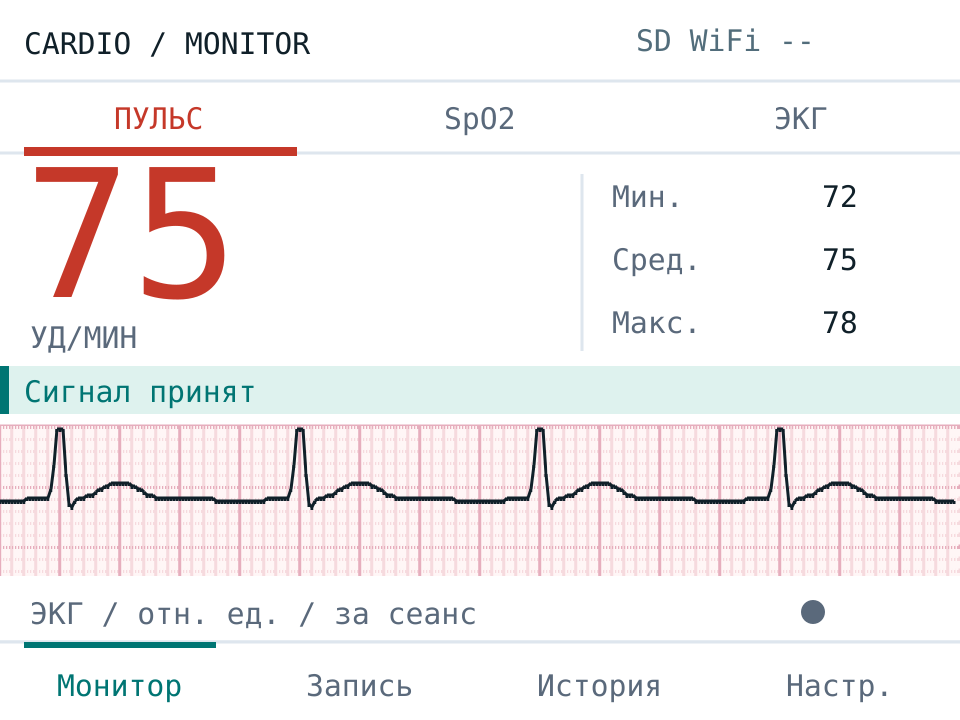
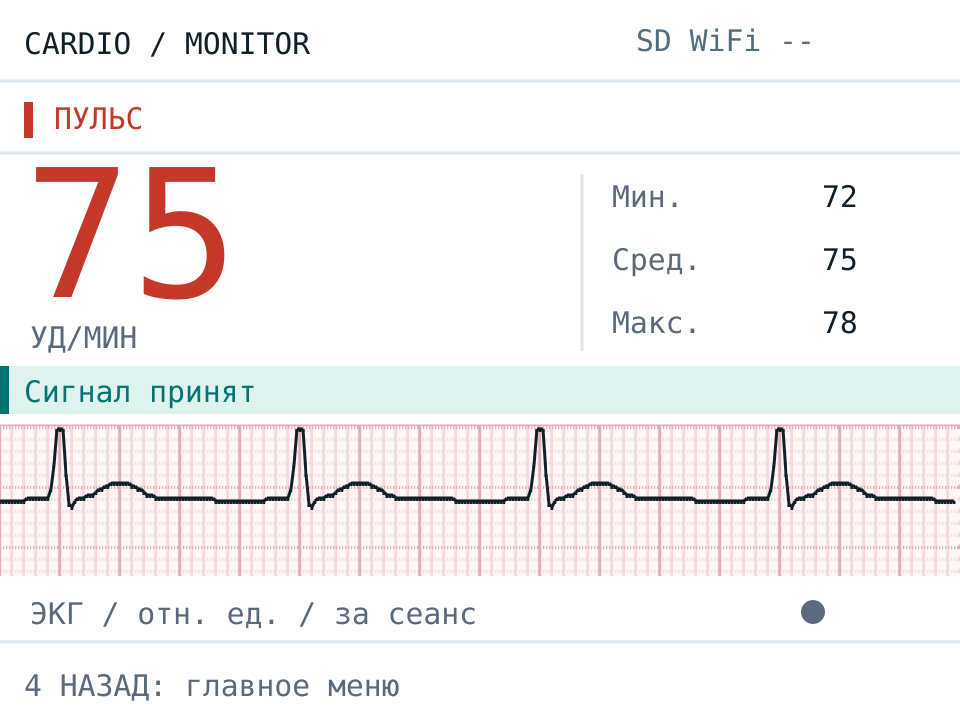
Restore original main menu and consistent directional navigation

diff --git a/Monitor soft/README.md b/Monitor soft/README.md
@@ -128,25 +128,27 @@ MAX30102 RED/IR ─────┘        ↕                     ↓
 
 ## Светлый интерфейс и управление
 
-Все экраны светлые: белый фон, плоские строки, тонкие разделители, крупные цифры
-без декоративных карточек. При включении открывается «Пульс»: крупная оптическая ЧСС,
-минимум/среднее/максимум принятых значений за сеанс и мини-ЭКГ. «SpO₂» показывает
-сатурацию, оптическую ЧСС, контакт пальца и PPG. «ЭКГ» показывает один канал,
-предварительную ЧСС и состояние качества.
+Восстановлено первоначальное главное меню: ЭКГ, Пульс, SpO₂, История, Настройки.
+Оно открывается при включении. Выбранный пункт подсвечен; после возврата выделение
+сохраняется. Светлые экраны измерений и обработка сигналов сохранены.
 
-| Физическая кнопка | На экране измерения | В списках и настройках |
-|---|---|---|
-| 1, GPIO 1 | Монитор: Пульс → SpO₂ → ЭКГ → Пульс | Вверх |
-| 2, GPIO 2 | Начать/остановить запись | Вниз |
-| 3, GPIO 10 | История | OK |
-| 4, ADS1115 A2 | Настройки | Назад |
+| Физическая кнопка | Действие |
+|---|---|
+| 1, GPIO 1 | Вверх: предыдущий пункт / страница |
+| 2, GPIO 2 | Вниз: следующий пункт / страница |
+| 3, GPIO 10 | OK: открыть пункт / изменить настройку |
+| 4, ADS1115 A2 | Назад: вернуться на один уровень |
 
-Переход между измерениями закрывает текущий файл и начинает новый сеанс.
-Вход в историю/настройки останавливает сбор и закрывает файл. Возврат открывает
-последнюю вкладку измерения. При включённой настройке записи новый сеанс записывается
-автоматически; подсветка «Запись» означает реально открытый файл на SD.
-Статистика пульса обновляется принятыми показаниями примерно раз в секунду,
-сбрасывается при начале сеанса и занимает фиксированный объём RAM.
+Чтобы сменить измерение: **Назад → Вверх/Вниз → OK**. На экране измерения
+кнопки 1/2/3 не переключают режим и не меняют запись; снизу показана подсказка
+«4 НАЗАД: главное меню». Назад завершает сеанс и закрывает CSV.
+Запись включается и выключается через **Настройки → Запись**; при включённой
+записи открытие измерения создаёт новый файл. Индикатор REC означает открытый файл.
+
+Пульс показывает крупную ЧСС, min/среднее/max принятых значений за сеанс и мини-ЭКГ.
+SpO₂ показывает сатурацию, оптическую ЧСС, наличие пальца и PPG. ЭКГ показывает
+один канал, предварительную ЧСС и качество сигнала. Статистика занимает фиксированный
+объём RAM и сбрасывается при начале сеанса.
 
 Настройки дополнены пунктами «Тема: Светлая», сеткой (мелкая+крупная / крупная),
 информацией о фиксированной подсветке и развёртке 0,2 с/дел. Тема всегда светлая;

diff --git a/Monitor soft/docs/light-interface.md b/Monitor soft/docs/light-interface.md
@@ -7,7 +7,8 @@
 ## Прибор 320×240
 
 Прибор оформлен как компактная панель медицинского монитора: ровный белый фон,
-тонкие разделители, плоские вкладки без округлых карточек. Основные цифры увеличены
+тонкие разделители, заголовок выбранного измерения вместо ряда вкладок.
+Восстановлено первоначальное главное меню с пятью пунктами. Основные цифры увеличены
 с масштаба 5 до 6; вспомогательная статистика отделена вертикальной линией.
 Область ЭКГ увеличена с 83 до 92 пикселей по высоте, мини-график — с 41 до 50.
 Состояние сигнала занимает одну полосу с цветовым маркером. История, настройки
@@ -26,9 +27,11 @@
 |---|---|
 | ![ЭКГ — синтетический пример](light-interface/ecg.png) | ![Нет сигнала](light-interface/no-signal.png) |
 
-Кнопки на измерении: Монитор (следующая вкладка), Запись (вкл/выкл), История,
-Настройки. В списках: Вверх, Вниз, OK, Назад. История и все служебные экраны
-используют ту же светлую палитру.
+Управление возвращено к первой схеме: **1 Вверх / 2 Вниз / 3 OK / 4 Назад**.
+При включении — главное меню: ЭКГ, Пульс, SpO₂, История, Настройки.
+Для смены раздела нажмите Назад, выберите его стрелками и нажмите OK.
+Измерение завершается при выходе в меню; запись на SD включается в настройках.
+На измерении снизу остаётся одна подсказка возврата, без кнопок-вкладок.
 
 Бумага розовая, линия ЭКГ чёрная. Амплитуда относительная, одно крупное деление
 соответствует 0,2 с. Нельзя считать клетку физическим миллиметром или подписывать
@@ -50,7 +53,6 @@ done
 10 октября 2026 года прошивка собрана для `esp32:esp32:makergo_c3_supermini`
 и загружена через Arduino CLI на ESP32-C3 (4 МБ) по `/dev/ttyACM1`.
 Загрузчик подтвердил контрольную сумму записанных данных и выполнил сброс платы.
-Размер программы — 1 147 079 байт, статические данные — 45 420 байт.
 Визуальные примеры выше проверены на компьютере; реальный дисплей дистанционно
 не наблюдался.
 

diff --git a/README.md b/README.md
@@ -47,9 +47,9 @@ ESP32 собирает и обрабатывает сигналы, рисует 
 Прибор использует белую плоскую панель с крупными цифрами и тонкими разделителями;
 приложение — светлый фон и белые карточки. Общие акценты: бирюзовый,
 красная ЧСС и синяя SpO₂. ЭКГ рисуется чёрной линией на розовой сетке.
-На приборе кнопки измерения: **Монитор → Запись → История → Настройки**;
-кнопка «Монитор» по кругу переключает Пульс / SpO₂ / ЭКГ.
-В списках остаются Вверх / Вниз / OK / Назад.
+На приборе восстановлено первое главное меню: ЭКГ / Пульс / SpO₂ / История / Настройки.
+Кнопки: **1 Вверх / 2 Вниз / 3 OK / 4 Назад**. Для смены измерения:
+Назад → выбрать раздел → OK. Запись включается в настройках.
 
 В приложении — Главная / Записи / Устройство, детали записи с прокруткой графика,
 экспортом CSV и подтверждением удаления. Недоступные данные обозначены явно;
